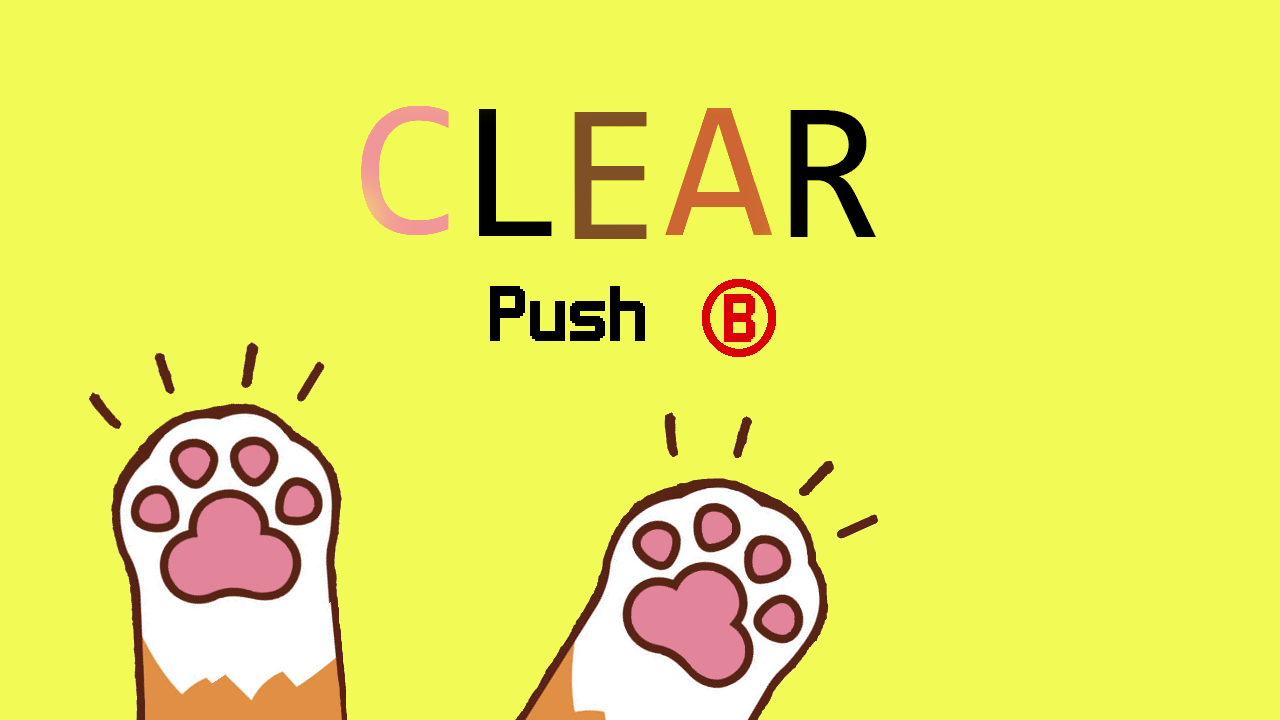
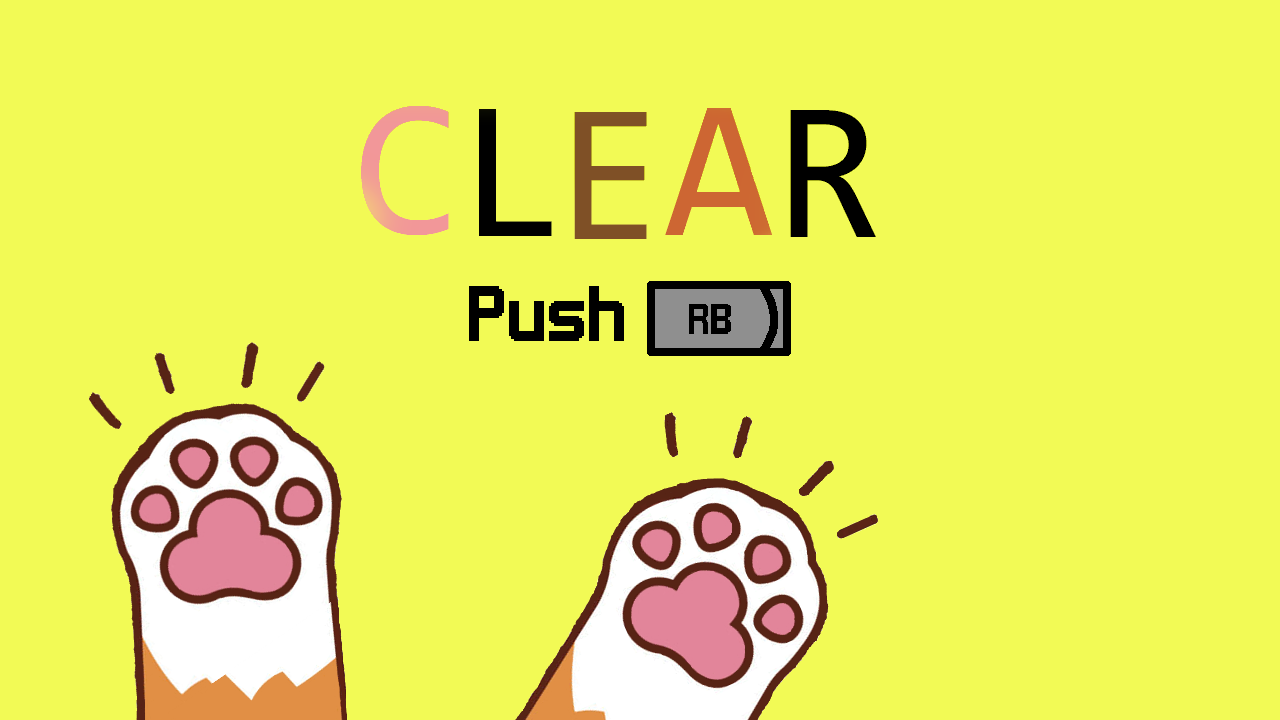
シーンが飛んじゃう問題解決

Changed region(s): [[0.3438, 0.3667, 0.625, 0.5194]]

diff --git a/scene/GameScene.cpp b/scene/GameScene.cpp
@@ -69,149 +69,146 @@ void GameScene::Finalize() {
 
 void GameScene::Update() {
 
-	XINPUT_STATE joyState{};
+	///PAD
+	PADUpdate();
 	switch (scene)
 	{
 	case 0://タイトル
-		if (Input::GetInstance()->GetJoystickState(0, joyState)) {
-			if (joyState.Gamepad.wButtons & XINPUT_GAMEPAD_RIGHT_SHOULDER) {
-				audio_->PlayWave(soundHandleNext_, false, 3);
-				audio_->StopWave(soundHandleLoop_);
-				playerKoFlag_ = 0;
-				enemyKoFlag_ = 0;
-				playerArm_->ReInitialize();
-				enemy_->ReInitialize();
-				scene = 1;
-			}
+		//debugText_->SetPos(0, 0);
+		//debugText_->Printf("B:%d,前B:%d,RB:%d,前RB:%d", GamePAD_B, prevGamePAD_B, GamePAD_RIGHT_SHOULDER, prevGamePAD_RIGHT_SHOULDER);
+		if (GamePAD_RIGHT_SHOULDER == true && prevGamePAD_RIGHT_SHOULDER == false) {
+			audio_->PlayWave(soundHandleNext_, false, 3);
+			audio_->StopWave(soundHandleLoop_);
+			playerKoFlag_ = 0;
+			enemyKoFlag_ = 0;
+			playerArm_->ReInitialize();
+			enemy_->ReInitialize();
+			scene = 1;
 		}
 		break;
 	case 1://ステージ１
-		if (Input::GetInstance()->GetJoystickState(0, joyState)) {
-			playerArm_->Update();
-			enemy_->Update();
-			CheckCollision();
-			viewProjection_.UpdateMatrix();
 
-			if (playerArm_->GetHp() <= 0) {
-				playerKoFlag_ = 1;
-				if (playerKoFlag_ == 1) {
-					audio_->PlayWave(soundHandleKo_, false, 3);
-				}
-			}
-			if (enemy_->GetHp() <= 0) {
-				enemyKoFlag_ = 1;
-				if (enemyKoFlag_ == 1) {
-					audio_->PlayWave(soundHandleKo_, false, 3);
-				}
-			}
+		playerArm_->Update();
+		enemy_->Update();
+		CheckCollision();
+		viewProjection_.UpdateMatrix();
+
+		if (playerArm_->GetHp() <= 0) {
+			playerKoFlag_ = 1;
 			if (playerKoFlag_ == 1) {
-				if (joyState.Gamepad.wButtons & XINPUT_GAMEPAD_RIGHT_SHOULDER) {
-					audio_->PlayWave(soundHandleNext_, false, 3);
-					playerKoFlag_ = 0;
-					playerArm_->ReInitialize();
-					enemy_->ReInitialize();
-					scene = 0;
-				}
+				audio_->PlayWave(soundHandleKo_, false, 3);
 			}
+		}
+		if (enemy_->GetHp() <= 0) {
+			enemyKoFlag_ = 1;
 			if (enemyKoFlag_ == 1) {
-				if (joyState.Gamepad.wButtons & XINPUT_GAMEPAD_RIGHT_SHOULDER){
-					audio_->PlayWave(soundHandleNext_, false, 3);
-					enemyKoFlag_ = 0;
-					playerArm_->ReInitialize();
-					enemy_->ReInitialize();
-					scene = 2;
-				}
+				audio_->PlayWave(soundHandleKo_, false, 3);
+			}
+		}
+		if (playerKoFlag_ == 1) {
+			if (GamePAD_RIGHT_SHOULDER == true && prevGamePAD_RIGHT_SHOULDER == false) {
+				audio_->PlayWave(soundHandleNext_, false, 3);
+				playerKoFlag_ = 0;
+				playerArm_->ReInitialize();
+				enemy_->ReInitialize();
+				scene = 0;
+			}
+		}
+		if (enemyKoFlag_ == 1) {
+			if (GamePAD_RIGHT_SHOULDER == true && prevGamePAD_RIGHT_SHOULDER == false) {
+				audio_->PlayWave(soundHandleNext_, false, 3);
+				enemyKoFlag_ = 0;
+				playerArm_->ReInitialize();
+				enemy_->ReInitialize();
+				scene = 2;
 			}
 		}
 		break;
 	case 2://ステージ２
-		if (Input::GetInstance()->GetJoystickState(0, joyState)) {
-			playerArm_->Update();
-			enemy_->Update();
-			CheckCollision();
-			viewProjection_.UpdateMatrix();
+		playerArm_->Update();
+		enemy_->Update();
+		CheckCollision();
+		viewProjection_.UpdateMatrix();
 
-			if (playerArm_->GetHp() <= 0) {
-				playerKoFlag_ = 1;
-				if (playerKoFlag_ == 1) {
-					audio_->PlayWave(soundHandleKo_, false, 3);
-				}
-			}
-			if (enemy_->GetHp() <= 0) {
-				enemyKoFlag_ = 1;
-				if (enemyKoFlag_ == 1) {
-					audio_->PlayWave(soundHandleKo_, false, 3);
-				}
-			}
+		if (playerArm_->GetHp() <= 0) {
+			playerKoFlag_ = 1;
 			if (playerKoFlag_ == 1) {
-				if (joyState.Gamepad.wButtons & XINPUT_GAMEPAD_RIGHT_SHOULDER) {
-					audio_->PlayWave(soundHandleNext_, false, 3);
-					playerKoFlag_ = 0;
-					playerArm_->ReInitialize();
-					enemy_->ReInitialize();
-					scene = 0;
-				}
+				audio_->PlayWave(soundHandleKo_, false, 3);
 			}
+		}
+		if (enemy_->GetHp() <= 0) {
+			enemyKoFlag_ = 1;
 			if (enemyKoFlag_ == 1) {
-				if (joyState.Gamepad.wButtons & XINPUT_GAMEPAD_RIGHT_SHOULDER) {
-					audio_->PlayWave(soundHandleNext_, false, 3);
-					enemyKoFlag_ = 0;
-					playerArm_->ReInitialize();
-					enemy_->ReInitialize();
-					scene = 3;
-				}
+				audio_->PlayWave(soundHandleKo_, false, 3);
+			}
+		}
+		if (playerKoFlag_ == 1) {
+			if (GamePAD_RIGHT_SHOULDER == true && prevGamePAD_RIGHT_SHOULDER == false) {
+				audio_->PlayWave(soundHandleNext_, false, 3);
+				playerKoFlag_ = 0;
+				playerArm_->ReInitialize();
+				enemy_->ReInitialize();
+				scene = 0;
+			}
+		}
+		if (enemyKoFlag_ == 1) {
+			if (GamePAD_RIGHT_SHOULDER == true && prevGamePAD_RIGHT_SHOULDER == false) {
+				audio_->PlayWave(soundHandleNext_, false, 3);
+				enemyKoFlag_ = 0;
+				playerArm_->ReInitialize();
+				enemy_->ReInitialize();
+				scene = 3;
 			}
 		}
 		break;
 	case 3://ステージ３
-		if (Input::GetInstance()->GetJoystickState(0, joyState)) {
-			playerArm_->Update();
-			enemy_->Update();
-			CheckCollision();
-			viewProjection_.UpdateMatrix();
+		playerArm_->Update();
+		enemy_->Update();
+		CheckCollision();
+		viewProjection_.UpdateMatrix();
 
-			if (playerArm_->GetHp() <= 0) {
-				playerKoFlag_ = 1;
-				if (playerKoFlag_ == 1) {
-					audio_->PlayWave(soundHandleKo_, false, 3);
-				}
-			}
-			if (enemy_->GetHp() <= 0) {
-				enemyKoFlag_ = 1;
-				if (enemyKoFlag_ == 1) {
-					audio_->PlayWave(soundHandleKo_, false, 3);
-				}
-			}
+		if (playerArm_->GetHp() <= 0) {
+			playerKoFlag_ = 1;
 			if (playerKoFlag_ == 1) {
-				if (joyState.Gamepad.wButtons & XINPUT_GAMEPAD_RIGHT_SHOULDER) {
-					audio_->PlayWave(soundHandleNext_, false, 3);
-					playerKoFlag_ = 0;
-					playerArm_->ReInitialize();
-					enemy_->ReInitialize();
-					scene = 0;
-				}
+				audio_->PlayWave(soundHandleKo_, false, 3);
 			}
+		}
+		if (enemy_->GetHp() <= 0) {
+			enemyKoFlag_ = 1;
 			if (enemyKoFlag_ == 1) {
-				if (joyState.Gamepad.wButtons & XINPUT_GAMEPAD_RIGHT_SHOULDER) {
-					audio_->PlayWave(soundHandleNext_, false, 3);
-					enemyKoFlag_ = 0;
-					playerArm_->ReInitialize();
-					enemy_->ReInitialize();
-					scene = 4;
-				}
+				audio_->PlayWave(soundHandleKo_, false, 3);
+			}
+		}
+		if (playerKoFlag_ == 1) {
+			if (GamePAD_RIGHT_SHOULDER == true && prevGamePAD_RIGHT_SHOULDER == false) {
+				audio_->PlayWave(soundHandleNext_, false, 3);
+				playerKoFlag_ = 0;
+				playerArm_->ReInitialize();
+				enemy_->ReInitialize();
+				scene = 0;
+			}
+		}
+		if (enemyKoFlag_ == 1) {
+			if (GamePAD_RIGHT_SHOULDER == true && prevGamePAD_RIGHT_SHOULDER == false) {
+				audio_->PlayWave(soundHandleNext_, false, 3);
+				enemyKoFlag_ = 0;
+				playerArm_->ReInitialize();
+				enemy_->ReInitialize();
+				scene = 4;
 			}
 		}
 		break;
 	case 4://クリア画面
-		if (Input::GetInstance()->GetJoystickState(0, joyState)) {
-			if (joyState.Gamepad.wButtons & XINPUT_GAMEPAD_B) {
+		if (GamePAD_RIGHT_SHOULDER == true && prevGamePAD_RIGHT_SHOULDER == false) {
 				audio_->PlayWave(soundHandleNext_, false, 3);
 				soundHandleLoop_ = audio_->PlayWave(soundHandleTitle_, true, 1);
 				scene = 0;
-			}
 		}
 		break;
 	}
+	///1フレーム前のPADの状態を保存
+	prevGamePAD_B = GamePAD_B;
+	prevGamePAD_RIGHT_SHOULDER = GamePAD_RIGHT_SHOULDER;
 }
 void GameScene::Draw() {
 	// コマンドリストの取得
@@ -280,6 +277,24 @@ void GameScene::Draw() {
 		break;
 	}
 	Model::PostDraw();
+}
+
+void GameScene::PADUpdate()
+{
+	if (Input::GetInstance()->GetJoystickState(0, joyState)) {
+		if (joyState.Gamepad.wButtons & XINPUT_GAMEPAD_B) {
+			GamePAD_B = true;
+		}
+		else {
+			GamePAD_B = false;
+		}
+		if (joyState.Gamepad.wButtons & XINPUT_GAMEPAD_RIGHT_SHOULDER) {
+			GamePAD_RIGHT_SHOULDER = true;
+		}
+		else {
+			GamePAD_RIGHT_SHOULDER = false;
+		}
+	}
 }
 
 void GameScene::CheckCollision()

diff --git a/PlayerArm.cpp b/PlayerArm.cpp
@@ -198,7 +198,7 @@ void PlayerArm::Initialize(Model* model, Model* modelFace, uint32_t textureHandl
 
 		worldTransformAttackrange_.TransferMatrix();
 
-		//
+		//PADUpdate
 		for (int i = 0; i < 10; i++) {
 			worldTransformAttackCollision_[i].scale_ = { 0.0f,0.0f,0.0f };
 			worldTransformAttackCollision_[i].rotation_ = { 0.0f,0.0f,0.0f };
@@ -1203,6 +1203,12 @@ void PlayerArm::ReInitialize()
 
 		playerfile.close();
 	}
+	if (joyState.Gamepad.wButtons & XINPUT_GAMEPAD_DPAD_DOWN) {
+		GamePAD_DOWNARROW = true;
+	}
+	else {
+		GamePAD_DOWNARROW = false;
+	}
 }
 
 void PlayerArm::PADUpdate()
@@ -1265,6 +1271,12 @@ void PlayerArm::PADUpdate()
 		}
 		else {
 			GamePAD_Y = false;
+		}
+		if (joyState.Gamepad.wButtons & XINPUT_GAMEPAD_RIGHT_SHOULDER) {
+			GamePAD_RIGHT_SHOULDER = true;
+		}
+		else {
+			GamePAD_RIGHT_SHOULDER = false;
 		}
 	}
 }

diff --git a/scene/GameScene.h b/scene/GameScene.h
@@ -84,4 +84,12 @@ private: // メンバ変数
 	Vector3 SpeedBuffer = { 0,0,0 };
 	int PlayerAttackToEnemy = 0; //0:ヒット待機 1:ヒット 2:ヒット待機移行待ち
 	int EnemyAttackToPlayer = 0; //0:ヒット待機 1:ヒット 2:ヒット待機移行待ち
+
+	XINPUT_STATE joyState{};
+
+	bool GamePAD_B = false;
+	bool prevGamePAD_B = false;
+	bool GamePAD_RIGHT_SHOULDER = false;
+	bool prevGamePAD_RIGHT_SHOULDER = false;
+	void PADUpdate();
 };

diff --git a/main.cpp b/main.cpp
@@ -20,7 +20,7 @@ int WINAPI WinMain(HINSTANCE, HINSTANCE, LPSTR, int) {
 
 	// ゲームウィンドウの作成
 	win = WinApp::GetInstance();
-	win->CreateGameWindow("Neownch");
+	win->CreateGameWindow("ニャンチ");
 
 	// DirectX初期化処理
 	dxCommon = DirectXCommon::GetInstance();

diff --git a/PlayerArm.h b/PlayerArm.h
@@ -258,6 +258,8 @@ private:
 	bool GamePAD_Y = false;
 	bool prevGamePAD_Y = false;
 
+	bool GamePAD_RIGHT_SHOULDER = false;
+	bool prevGamePAD_RIGHT_SHOULDER = false;
 
 	void PADUpdate();
 };
